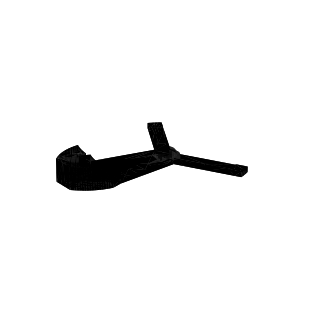
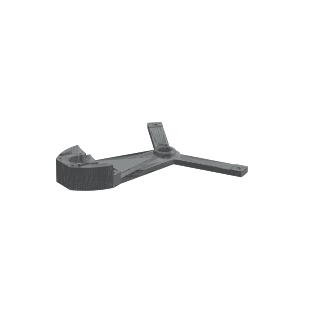
Foot cover, explainer image, camera renames, NEMA colour split
- Add "External bracket - foot cover" (per-machine, bottom-layer swap) with an
  info popover, Onshape link, and a layer_scope mechanism so bottom-vertical &
  cover scale as 6×(N−1) and the foot cover as 6.
- Add a generic Figure component (hover magnifier, click-to-zoom modal) and show
  the extrusion explainer image beside the 3D view (50/50, tighter height),
  captioned that the foot pieces aren't in the CAD yet.
- Cut plan: drop the Print button, add a kerf info popover.
- Rename camera-mount parts to Overhead camera mount A / B / A-B connector.
- NEMA bracket now matches its stator's colour split (1 gray + 3 black).

Changed region(s): [[0.1562, 0.375, 0.7812, 0.5938]]

diff --git a/src/lib/components/Figure.svelte b/src/lib/components/Figure.svelte
@@ -1,0 +1,39 @@
+<script lang="ts">
+	import { ZoomIn } from 'lucide-svelte';
+	import Modal from '$lib/components/Modal.svelte';
+
+	// Generic image: hover shows a magnifier, click opens it full-size in a dimmed
+	// modal. Reuse anywhere an inline image benefits from a zoomed view.
+	let {
+		src,
+		alt = '',
+		caption = '',
+		title = '',
+		imgClass = 'max-h-[34vh]'
+	}: { src: string; alt?: string; caption?: string; title?: string; imgClass?: string } = $props();
+
+	let open = $state(false);
+</script>
+
+<figure class="flex h-full min-h-0 flex-col items-center justify-center gap-2 p-3">
+	<button
+		type="button"
+		class="group relative flex min-h-0 items-center justify-center"
+		onclick={() => (open = true)}
+		aria-label={title || alt || 'Zoom image'}
+	>
+		<img {src} {alt} class="{imgClass} w-auto max-w-full object-contain" />
+		<span
+			class="absolute inset-0 flex items-center justify-center opacity-0 transition-opacity group-hover:opacity-100"
+		>
+			<span class="flex items-center justify-center bg-black/55 p-2 text-white"><ZoomIn size={20} /></span>
+		</span>
+	</button>
+	{#if caption}<figcaption class="text-center text-xs text-text-muted">{caption}</figcaption>{/if}
+</figure>
+
+<Modal bind:open title={title || alt}>
+	<div class="p-3">
+		<img {src} {alt} class="max-h-[82vh] w-full object-contain" />
+	</div>
+</Modal>

diff --git a/src/lib/components/CutPlan.svelte b/src/lib/components/CutPlan.svelte
@@ -1,5 +1,5 @@
 <script lang="ts">
-	import { Info, Printer } from 'lucide-svelte';
+	import { Info } from 'lucide-svelte';
 	import { FRAMING_PIECES, STOCK_MM, CLEARANCE_MM } from '$lib/framing';
 	import { layerStore } from '$lib/layers.svelte';
 	import { ftin, expand, packOptimal, packBundle, planGroups } from '$lib/cutplan';
@@ -91,10 +91,17 @@
 			<span class="text-xs font-semibold uppercase tracking-wider text-text-muted">Stock (mm)</span>
 			<input type="number" min="1" step="1" bind:value={stock} class="setup-control h-9 w-28 px-2 text-sm" />
 		</label>
-		<label class="flex flex-col gap-1">
-			<span class="text-xs font-semibold uppercase tracking-wider text-text-muted">Kerf (mm)</span>
+		<div class="flex flex-col gap-1">
+			<span class="inline-flex items-center gap-1 text-xs font-semibold uppercase tracking-wider text-text-muted">
+				Kerf (mm)
+				<Popover
+					width="w-64"
+					label="What is kerf"
+					text="Kerf is the width of material the saw blade removes on each cut. The plan leaves one kerf of spacing between pieces on a bar so every piece finishes at its exact length."
+				/>
+			</span>
 			<input type="number" min="0" step="0.1" bind:value={kerf} class="setup-control h-9 w-28 px-2 text-sm" />
-		</label>
+		</div>
 		<div class="flex flex-col gap-1">
 			<span class="text-xs font-semibold uppercase tracking-wider text-text-muted">Mode</span>
 			<div class="flex">
@@ -108,12 +115,6 @@
 				>
 			</div>
 		</div>
-		<button
-			class="setup-button-secondary ml-auto inline-flex h-9 items-center gap-1.5 px-3 text-sm"
-			onclick={() => window.print()}
-		>
-			<Printer size={14} /> Print
-		</button>
 	</div>
 
 	<!-- pieces -->

diff --git a/src/lib/filament.ts b/src/lib/filament.ts
@@ -46,6 +46,10 @@ export type Part = {
 	color: ColorSpec;
 	optional: boolean;
 	onshape?: string | null; // link to the source Onshape document, if known
+	info?: string | null; // short note surfaced as an inline info popover
+	// how the per-layer ('layer') quantity scales: every layer, all but the bottom,
+	// or the bottom layer only (for bottom-layer-swapped parts like the foot cover)
+	layer_scope?: 'all' | 'non-bottom' | 'bottom-only';
 	stl: string;
 	render: string;
 };
@@ -76,6 +80,17 @@ export function categoryMultiplier(categoryId: string, layers: number): number {
 	return sectionById.get(categoryId)?.scales_with_layers ? layers : 1;
 }
 
+/** Layer multiplier for a part in a category, honoring its `layer_scope`.
+ *  Distribution-frame ('layer') parts can apply to all layers, all but the
+ *  bottom (standard brackets), or the bottom layer only (the foot cover). */
+export function effectiveMult(part: Part, categoryId: string, layers: number): number {
+	if (categoryId === 'layer') {
+		if (part.layer_scope === 'non-bottom') return Math.max(0, layers - 1);
+		if (part.layer_scope === 'bottom-only') return layers >= 1 ? 1 : 0;
+	}
+	return categoryMultiplier(categoryId, layers);
+}
+
 export function getAssembly(id: string | null): Assembly | undefined {
 	return id ? assemblyById.get(id) : undefined;
 }
@@ -89,7 +104,7 @@ export function sectionQty(part: Part, sectionId: string): number {
 export function machineQty(part: Part, layers: number): number {
 	let n = 0;
 	for (const [cat, qty] of Object.entries(part.quantities)) {
-		n += qty * categoryMultiplier(cat, layers);
+		n += qty * effectiveMult(part, cat, layers);
 	}
 	return n;
 }
@@ -103,7 +118,7 @@ export function displayCount(
 ): number {
 	const vc = variantCount(part.id);
 	if (vc !== null) return vc; // variant parts (e.g. funnels) are counted per layer-choice
-	return sectionQty(part, sectionId) * categoryMultiplier(sectionId, layers);
+	return sectionQty(part, sectionId) * effectiveMult(part, sectionId, layers);
 }
 
 /** Per-color unit breakdown of `catQty` pieces of a part (1 category instance). */
@@ -197,7 +212,7 @@ export function buyList(
 			continue;
 		}
 		for (const [cat, qty] of Object.entries(part.quantities)) {
-			const mult = categoryMultiplier(cat, layers);
+			const mult = effectiveMult(part, cat, layers);
 			for (const u of colorUnits(part, qty, roleColors)) {
 				const key = u.colorId ?? '__any__';
 				byColor.set(key, (byColor.get(key) ?? 0) + each * u.count * mult);

diff --git a/src/lib/components/ExtrusionScene.svelte b/src/lib/components/ExtrusionScene.svelte
@@ -1,11 +1,14 @@
 <script lang="ts">
-	import { onMount } from 'svelte';
+	import { onMount, type Snippet } from 'svelte';
 	import * as THREE from 'three';
 	import { OrbitControls } from 'three/examples/jsm/controls/OrbitControls.js';
 	import { RoomEnvironment } from 'three/examples/jsm/environments/RoomEnvironment.js';
 	import { lengthGroups, STOCK_MM, type LengthGroup } from '$lib/framing';
 	import { extrusionGeometry, aluminiumMaterial } from '$lib/extrusion';
 	import { layerStore } from '$lib/layers.svelte';
+
+	// optional panel rendered beside the 3D view (splits the view area 50/50)
+	let { aside }: { aside?: Snippet } = $props();
 
 	const n = $derived(layerStore.sizes.length);
 	const groups = $derived(lengthGroups(n));
@@ -159,11 +162,16 @@
 		</p>
 	</div>
 
-	<div class="relative h-[54vh] w-full bg-[var(--color-bg)]">
-		<div bind:this={host} class="h-full w-full"></div>
-		<div class="pointer-events-none absolute bottom-2 left-3 text-xs text-text-muted">
-			drag to rotate · scroll to zoom
+	<div class="flex">
+		<div class="relative h-[42vh] {aside ? 'w-1/2' : 'w-full'} bg-[var(--color-bg)]">
+			<div bind:this={host} class="h-full w-full"></div>
+			<div class="pointer-events-none absolute bottom-2 left-3 text-xs text-text-muted">
+				drag to rotate · scroll to zoom
+			</div>
 		</div>
+		{#if aside}
+			<div class="w-1/2 border-l border-border">{@render aside()}</div>
+		{/if}
 	</div>
 
 	<!-- legend: same top→bottom order as the rows -->

diff --git a/src/routes/framing/+page.svelte b/src/routes/framing/+page.svelte
@@ -2,6 +2,7 @@
 	import ExtrusionScene from '$lib/components/ExtrusionScene.svelte';
 	import LayerControl from '$lib/components/LayerControl.svelte';
 	import CutPlan from '$lib/components/CutPlan.svelte';
+	import Figure from '$lib/components/Figure.svelte';
 </script>
 
 <svelte:head><title>Sorter Parts Calculator — Aluminium framing</title></svelte:head>
@@ -20,7 +21,17 @@
 	</section>
 
 	<section class="mb-8">
-		<ExtrusionScene />
+		<ExtrusionScene>
+			{#snippet aside()}
+				<Figure
+					src="/extrusion-explainer.png"
+					alt="Extrusion assembly explainer"
+					title="Extrusion assembly explainer"
+					caption="The foot pieces aren't in the CAD yet."
+					imgClass="max-h-[32vh]"
+				/>
+			{/snippet}
+		</ExtrusionScene>
 	</section>
 
 	<section>

diff --git a/src/routes/+page.svelte b/src/routes/+page.svelte
@@ -347,7 +347,7 @@
 					{p.name}
 					{#if p.optional}<span class="border border-warning/50 px-1 text-xs text-warning-dark">optional</span>{/if}
 					{#if p.support_used}<span class="border border-info/50 px-1 text-xs text-info" title="Sliced with support material — included in this part's grams">supports</span>{/if}
-						{#if platesForPart(p.id).length}<button type="button" class="inline-flex items-center gap-0.5 border border-border px-1 text-xs text-text-muted hover:border-primary hover:text-primary" onclick={() => openPlatesModal(p.id)} title="Show plates with this part"><Layers3 size={11} /> {platesForPart(p.id).length} plate{platesForPart(p.id).length === 1 ? '' : 's'}</button>{/if}{#if p.onshape}<a href={p.onshape} target="_blank" rel="noopener" class="inline-flex items-center gap-0.5 border border-border px-1 text-xs text-text-muted hover:border-primary hover:text-primary" title="Open the source Onshape document">Onshape <ExternalLink size={11} /></a>{/if}
+						{#if platesForPart(p.id).length}<button type="button" class="inline-flex items-center gap-0.5 border border-border px-1 text-xs text-text-muted hover:border-primary hover:text-primary" onclick={() => openPlatesModal(p.id)} title="Show plates with this part"><Layers3 size={11} /> {platesForPart(p.id).length} plate{platesForPart(p.id).length === 1 ? '' : 's'}</button>{/if}{#if p.onshape}<a href={p.onshape} target="_blank" rel="noopener" class="inline-flex items-center gap-0.5 border border-border px-1 text-xs text-text-muted hover:border-primary hover:text-primary" title="Open the source Onshape document">Onshape <ExternalLink size={11} /></a>{/if}{#if p.info}<Popover width="w-64" label="About {p.name}" text={p.info} />{/if}
 				</span>
 				<span class="flex flex-wrap items-center gap-1.5 text-xs text-text-muted">
 					{#each sw as s}

diff --git a/slicer/filament.py b/slicer/filament.py
@@ -405,6 +405,8 @@ def main():
             "color": p.get("color", {"any": True}),
             "optional": p.get("optional", False),
             "onshape": p.get("onshape"),
+            "info": p.get("info"),
+            "layer_scope": p.get("layer_scope", "all"),
             "stl": f"/stl/{stl_name}",
             "render": f"/renders/{p['id']}.png",
         })